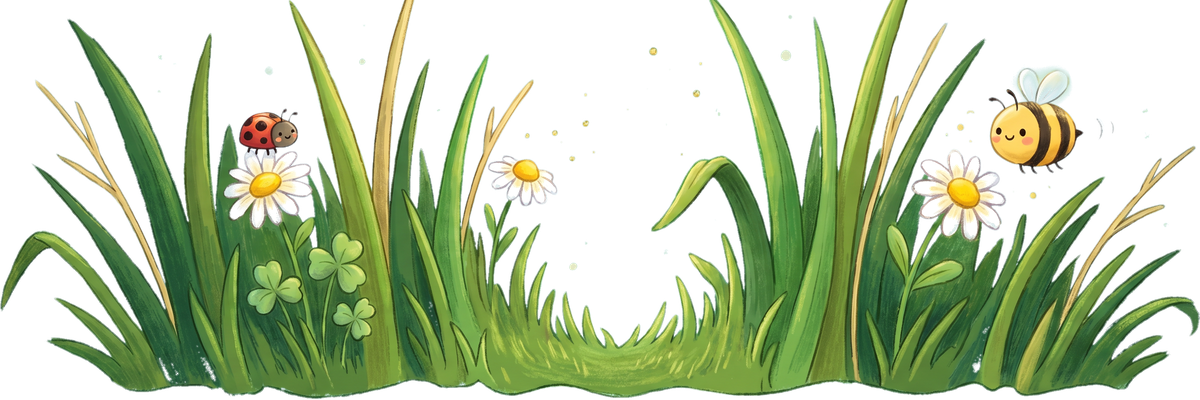
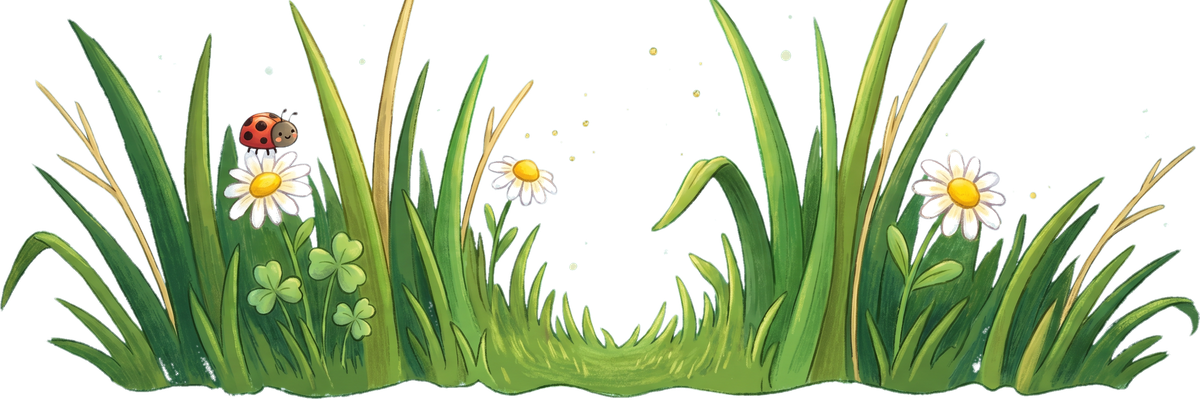
Bee on its own layer: vertical figure-eight over a bee-free grass tuft
Static bee removed from the painted grass clump (hand-edited bee-free
version, 1200×400 landscape at 612 KB, replacing the 1.5 MB square).
Grass CSS reverts to natural aspect rendering now that the source no
longer needs cover-clipping.

Flying bee animation reworked from a horizontal circle into a vertical
figure-eight with two flower-dip arcs per cycle — the bee hovers
above, dives down onto an imaginary flower, pops back up, crosses
higher to a second flower, dives, rises, and returns. Reads as
"seeking flowers from above" rather than flying backwards.

Applied across welcome, login, and signup mockups.

Changed region(s): [[0.8017, 0.15, 0.925, 0.42]]

diff --git a/apps/game/public/admin/mockup-welcome.html b/apps/game/public/admin/mockup-welcome.html
@@ -360,18 +360,19 @@
     will-change: transform;
   }
   @keyframes beeBuzz {
-    /* Wavy figure-eight around the grass tuft. Rotation sways with motion. */
-    0%   { transform: translate(0, 0)      rotate(0deg); }
-    10%  { transform: translate(40px, -18px) rotate(8deg); }
-    20%  { transform: translate(90px, -8px)  rotate(-4deg); }
-    30%  { transform: translate(140px, -24px) rotate(10deg); }
-    40%  { transform: translate(180px, 0)    rotate(-6deg); }
-    50%  { transform: translate(160px, 28px) rotate(-12deg); }
-    60%  { transform: translate(110px, 14px) rotate(6deg); }
-    70%  { transform: translate(60px, 32px)  rotate(-4deg); }
-    80%  { transform: translate(10px, 10px)  rotate(10deg); }
-    90%  { transform: translate(-30px, -8px) rotate(-6deg); }
-    100% { transform: translate(0, 0)      rotate(0deg); }
+    /* Vertical figure-eight — two dips onto imaginary flowers per cycle.
+       Horizontal drift stays modest so the bee never flies "backwards" for
+       long; vertical range is bigger so the motion reads as "seeking a
+       flower from above, swooping down, popping back up". */
+    0%   { transform: translate(0,     -40px) rotate(-4deg); }  /* hovering high, left */
+    15%  { transform: translate(10px,  10px)  rotate(14deg); }  /* diving to left flower */
+    25%  { transform: translate(25px,  -20px) rotate(-8deg); }  /* popping back up */
+    40%  { transform: translate(55px,  -50px) rotate(4deg); }   /* gliding right, high */
+    55%  { transform: translate(80px,  15px)  rotate(-16deg); } /* diving to right flower */
+    65%  { transform: translate(95px,  -25px) rotate(8deg); }   /* popping back up */
+    80%  { transform: translate(50px,  -55px) rotate(-6deg); }  /* drifting back, higher still */
+    92%  { transform: translate(-10px, -30px) rotate(6deg); }   /* settling */
+    100% { transform: translate(0,     -40px) rotate(-4deg); }  /* loop */
   }
 
   /* Grass clump at the base of the stake — hand-painted tuft of blades */
@@ -381,7 +382,7 @@
     bottom: clamp(-8px, -1.5cqh, -2px);
     transform: translateX(-50%);
     width: 100%;    /* match sign width — tuft reads as ground, not detail */
-    height: auto;
+    height: auto;      /* grass source is now 3:1 landscape — full artwork renders naturally */
     object-fit: contain;
     pointer-events: none;
     z-index: 4;   /* above the stake tip but visually part of the ground */

diff --git a/apps/game/public/admin/mockup-login.html b/apps/game/public/admin/mockup-login.html
@@ -489,17 +489,15 @@
     will-change: transform;
   }
   @keyframes beeBuzz {
-    0%   { transform: translate(0, 0)      rotate(0deg); }
-    10%  { transform: translate(40px, -18px) rotate(8deg); }
-    20%  { transform: translate(90px, -8px)  rotate(-4deg); }
-    30%  { transform: translate(140px, -24px) rotate(10deg); }
-    40%  { transform: translate(180px, 0)    rotate(-6deg); }
-    50%  { transform: translate(160px, 28px) rotate(-12deg); }
-    60%  { transform: translate(110px, 14px) rotate(6deg); }
-    70%  { transform: translate(60px, 32px)  rotate(-4deg); }
-    80%  { transform: translate(10px, 10px)  rotate(10deg); }
-    90%  { transform: translate(-30px, -8px) rotate(-6deg); }
-    100% { transform: translate(0, 0)      rotate(0deg); }
+    0%   { transform: translate(0,     -40px) rotate(-4deg); }
+    15%  { transform: translate(10px,  10px)  rotate(14deg); }
+    25%  { transform: translate(25px,  -20px) rotate(-8deg); }
+    40%  { transform: translate(55px,  -50px) rotate(4deg); }
+    55%  { transform: translate(80px,  15px)  rotate(-16deg); }
+    65%  { transform: translate(95px,  -25px) rotate(8deg); }
+    80%  { transform: translate(50px,  -55px) rotate(-6deg); }
+    92%  { transform: translate(-10px, -30px) rotate(6deg); }
+    100% { transform: translate(0,     -40px) rotate(-4deg); }
   }
 
   /* Grass clump at the base of the stake — hand-painted tuft of blades */

diff --git a/apps/game/public/admin/mockup-signup.html b/apps/game/public/admin/mockup-signup.html
@@ -533,17 +533,15 @@
     will-change: transform;
   }
   @keyframes beeBuzz {
-    0%   { transform: translate(0, 0)      rotate(0deg); }
-    10%  { transform: translate(40px, -18px) rotate(8deg); }
-    20%  { transform: translate(90px, -8px)  rotate(-4deg); }
-    30%  { transform: translate(140px, -24px) rotate(10deg); }
-    40%  { transform: translate(180px, 0)    rotate(-6deg); }
-    50%  { transform: translate(160px, 28px) rotate(-12deg); }
-    60%  { transform: translate(110px, 14px) rotate(6deg); }
-    70%  { transform: translate(60px, 32px)  rotate(-4deg); }
-    80%  { transform: translate(10px, 10px)  rotate(10deg); }
-    90%  { transform: translate(-30px, -8px) rotate(-6deg); }
-    100% { transform: translate(0, 0)      rotate(0deg); }
+    0%   { transform: translate(0,     -40px) rotate(-4deg); }
+    15%  { transform: translate(10px,  10px)  rotate(14deg); }
+    25%  { transform: translate(25px,  -20px) rotate(-8deg); }
+    40%  { transform: translate(55px,  -50px) rotate(4deg); }
+    55%  { transform: translate(80px,  15px)  rotate(-16deg); }
+    65%  { transform: translate(95px,  -25px) rotate(8deg); }
+    80%  { transform: translate(50px,  -55px) rotate(-6deg); }
+    92%  { transform: translate(-10px, -30px) rotate(6deg); }
+    100% { transform: translate(0,     -40px) rotate(-4deg); }
   }
 
   /* Grass clump at the base of the stake — hand-painted tuft of blades */
